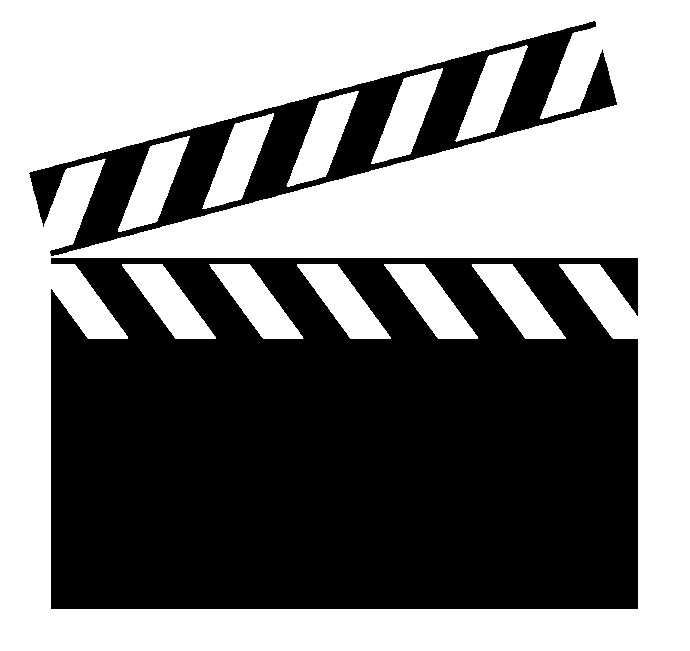
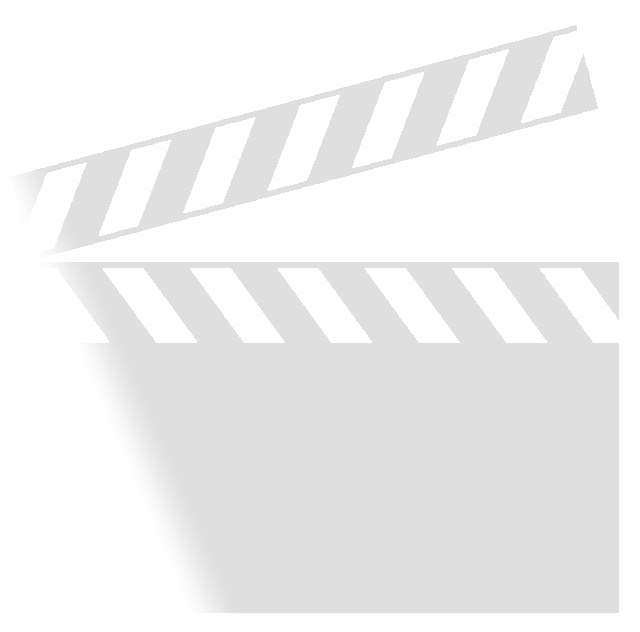
Welcome page - mobile

diff --git a/src/app/welcome/welcome.component.html b/src/app/welcome/welcome.component.html
@@ -1,7 +1,18 @@
 <div class="container">
   <div class="row">
-  <h1 class="title text-center col-12">Movies search</h1>
-  <img class="col-12" src="../../assets/img/claqueta.png" alt="logo-claqueta">
-  <button  class="btn btn-info col-4 offset-4" routerLink="/search">Empezar</button>
-</div><!--.row-->
-</div><!--.container-->
+    <div class="titleContainer col align-self-center">
+      <h1 class="title text-center">Movies search</h1>
+    </div>
+    <!--.titleContainer-->
+    <div class="logoContainer col-xs-7 offset-1">
+      <img class="logo" src="../../assets/img/claqueta.png" alt="logo-claqueta">
+    </div>
+    <!--.logoContainer-->
+    <div class="buttonContainer buttonContainer col-xs-5 offset-4 mt-3">
+      <button class="btn btn-info" routerLink="/search">Empezar</button>
+    </div>
+    <!--.buttonContainer-->
+  </div>
+  <!--.row-->
+</div>
+<!--.container-->

diff --git a/src/app/welcome/welcome.component.scss b/src/app/welcome/welcome.component.scss
@@ -1,26 +1,35 @@
 .container {
   width: 100%;
+  height: 100%;
   margin: 0;
-  padding: 0 0 50px 0;
-  background-color: rgb(203, 205, 206);
- 
+  padding: 0;
+  
   .row {
-    width: 100%;
+
+    max-width: 100%;
     margin: 0;
 
-    h1 {
-      color: #17A2B8;
-      text-transform: uppercase;
-      margin: 10px 0;
+    .titleContainer {
+      margin: 20px 0;
+
+      .title {
+        color: #ffffff;
+        font-size: 2.0rem;
+        font-family: 'Russo One', sans-serif;
+        font-weight: bold;
+        letter-spacing: 1px;
+        text-transform: uppercase;
+      }
     }
 
     img {
-      margin-top: 80px;
-      max-width: 360px;
+      margin: 50px 0 50px 30px;
+      width: 250px;
+      height: 235px;
     }
 
     button {
-      margin-top: 110px;
+      margin: 90px 0; 
       font-size: 20px;
       text-transform: uppercase;
       font-weight: bold;

diff --git a/src/styles.scss b/src/styles.scss
@@ -1,2 +1,18 @@
 /* You can add global styles to this file, and also import other style files */
 @import "../node_modules/bootstrap/scss/bootstrap";
+@import url('https://fonts.googleapis.com/css?family=Russo+One&display=swap');
+
+html {
+    width: 100%;
+    height: 100%; 
+
+    .body {
+        width: 100%;
+        height: 100%;   
+    
+        .globalContainer {
+            width: 100%;
+            height: 100%; 
+        }
+    }
+}

diff --git a/src/app/app.component.scss b/src/app/app.component.scss
@@ -1,0 +1,7 @@
+* {
+  background-image: url('../assets/img/posterEndgame.jpg');
+  background-repeat: no-repeat;
+  background-position: center;
+  background-attachment: fixed;
+  background-size: cover;
+}

diff --git a/src/app/app.component.html b/src/app/app.component.html
@@ -1,1 +1,3 @@
+<div class="globalContainer">
 <router-outlet></router-outlet>
+</div><!-- .globalContainer -->
